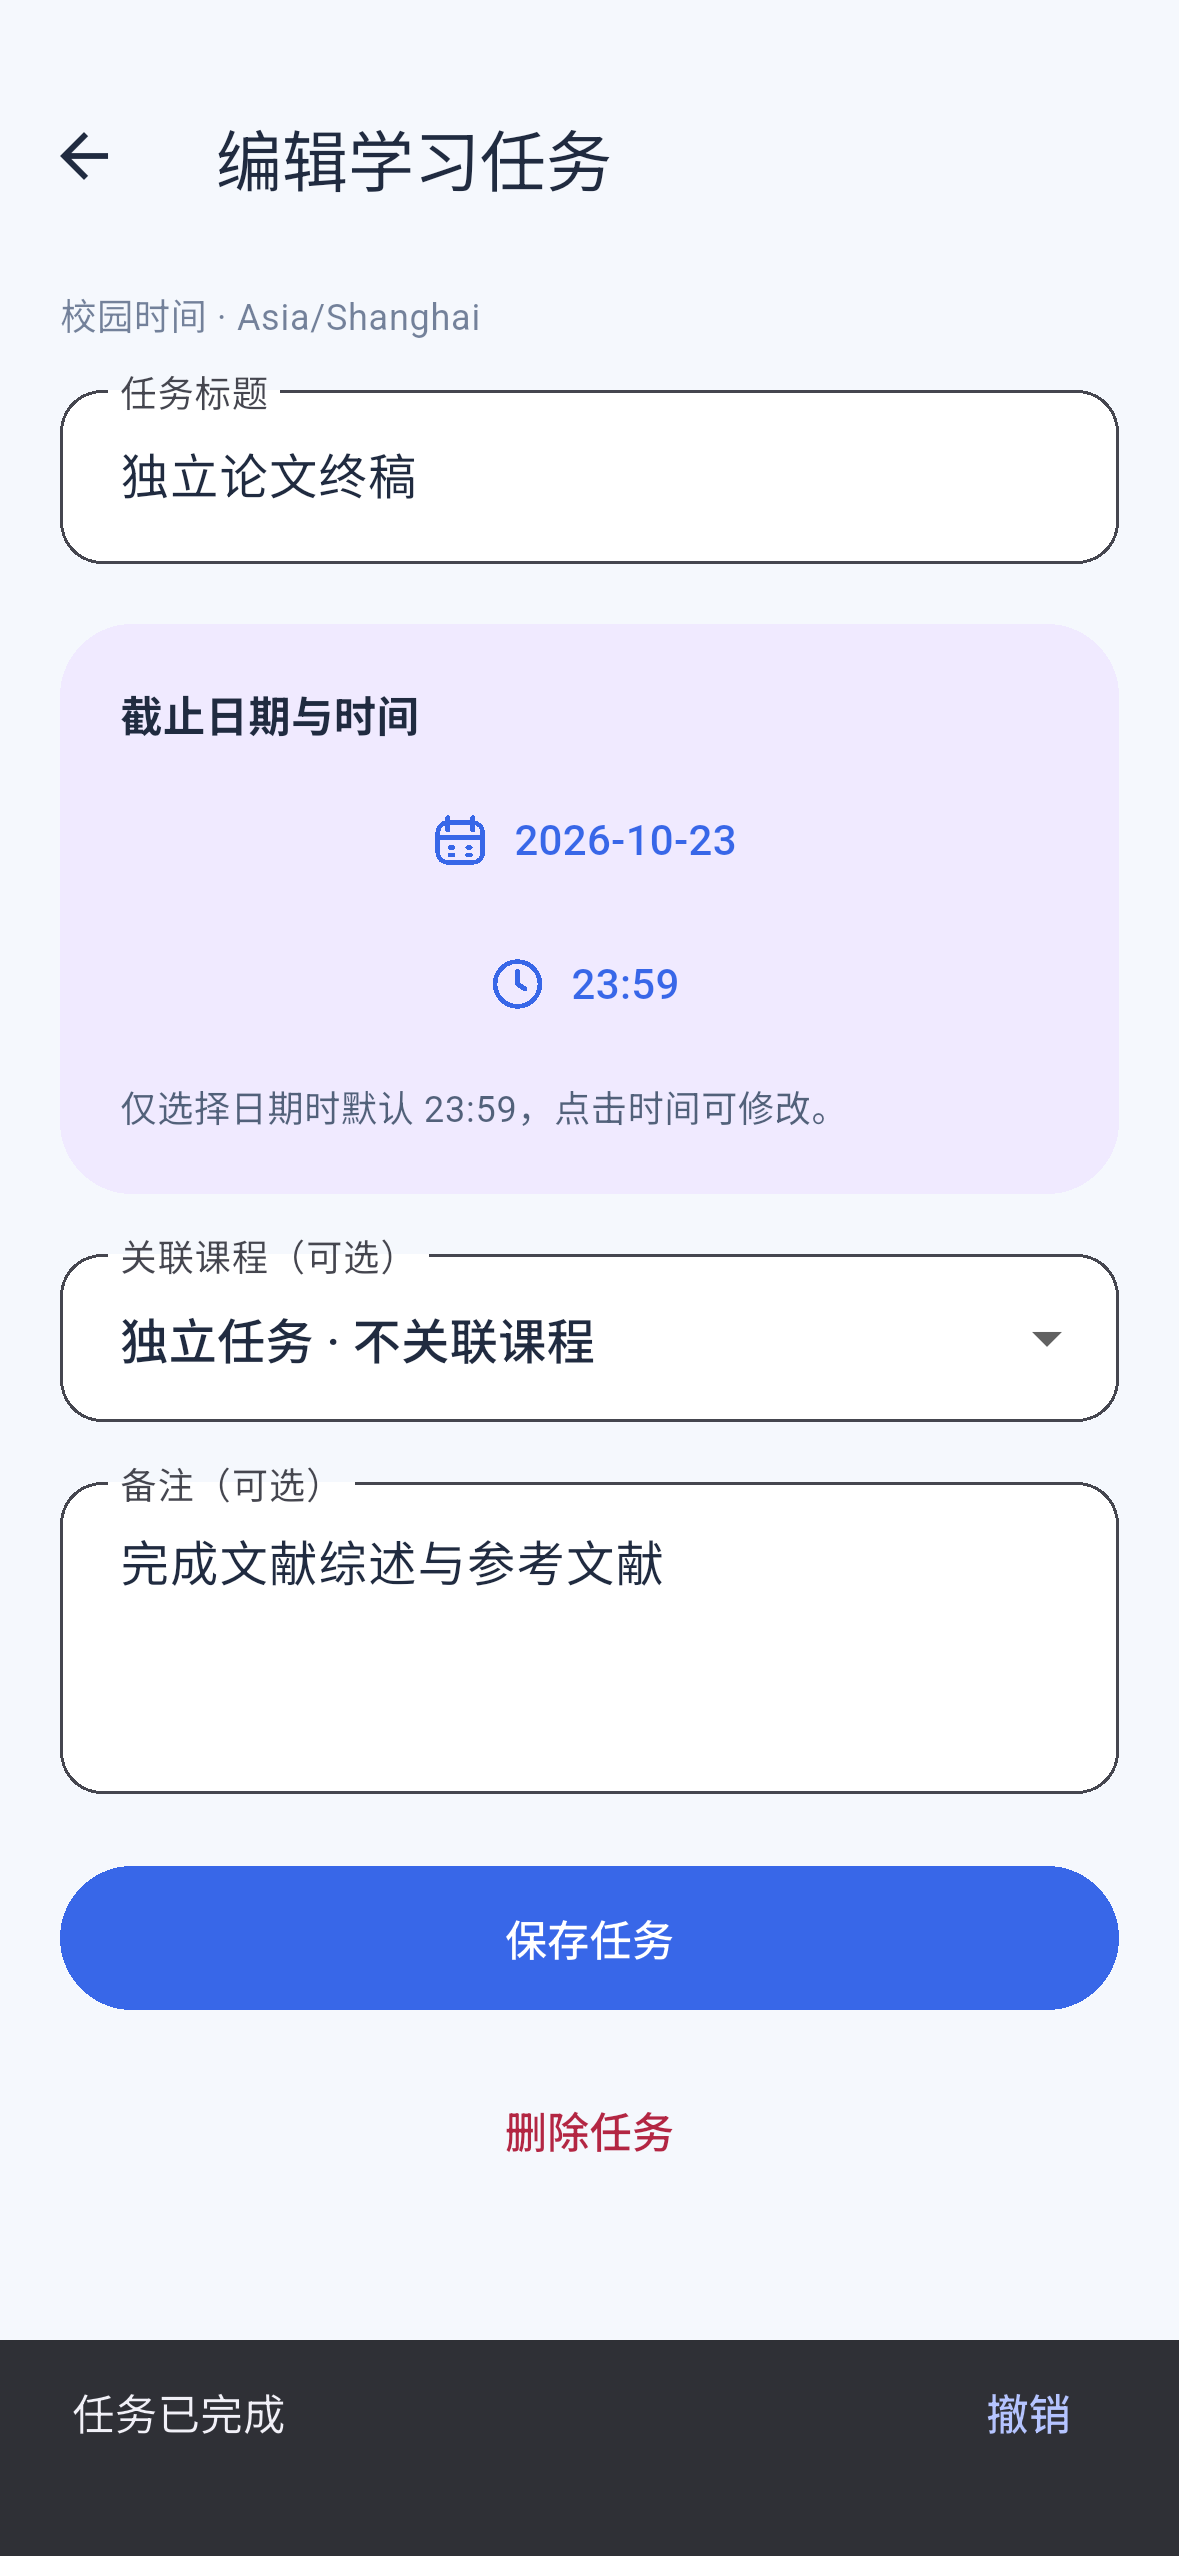
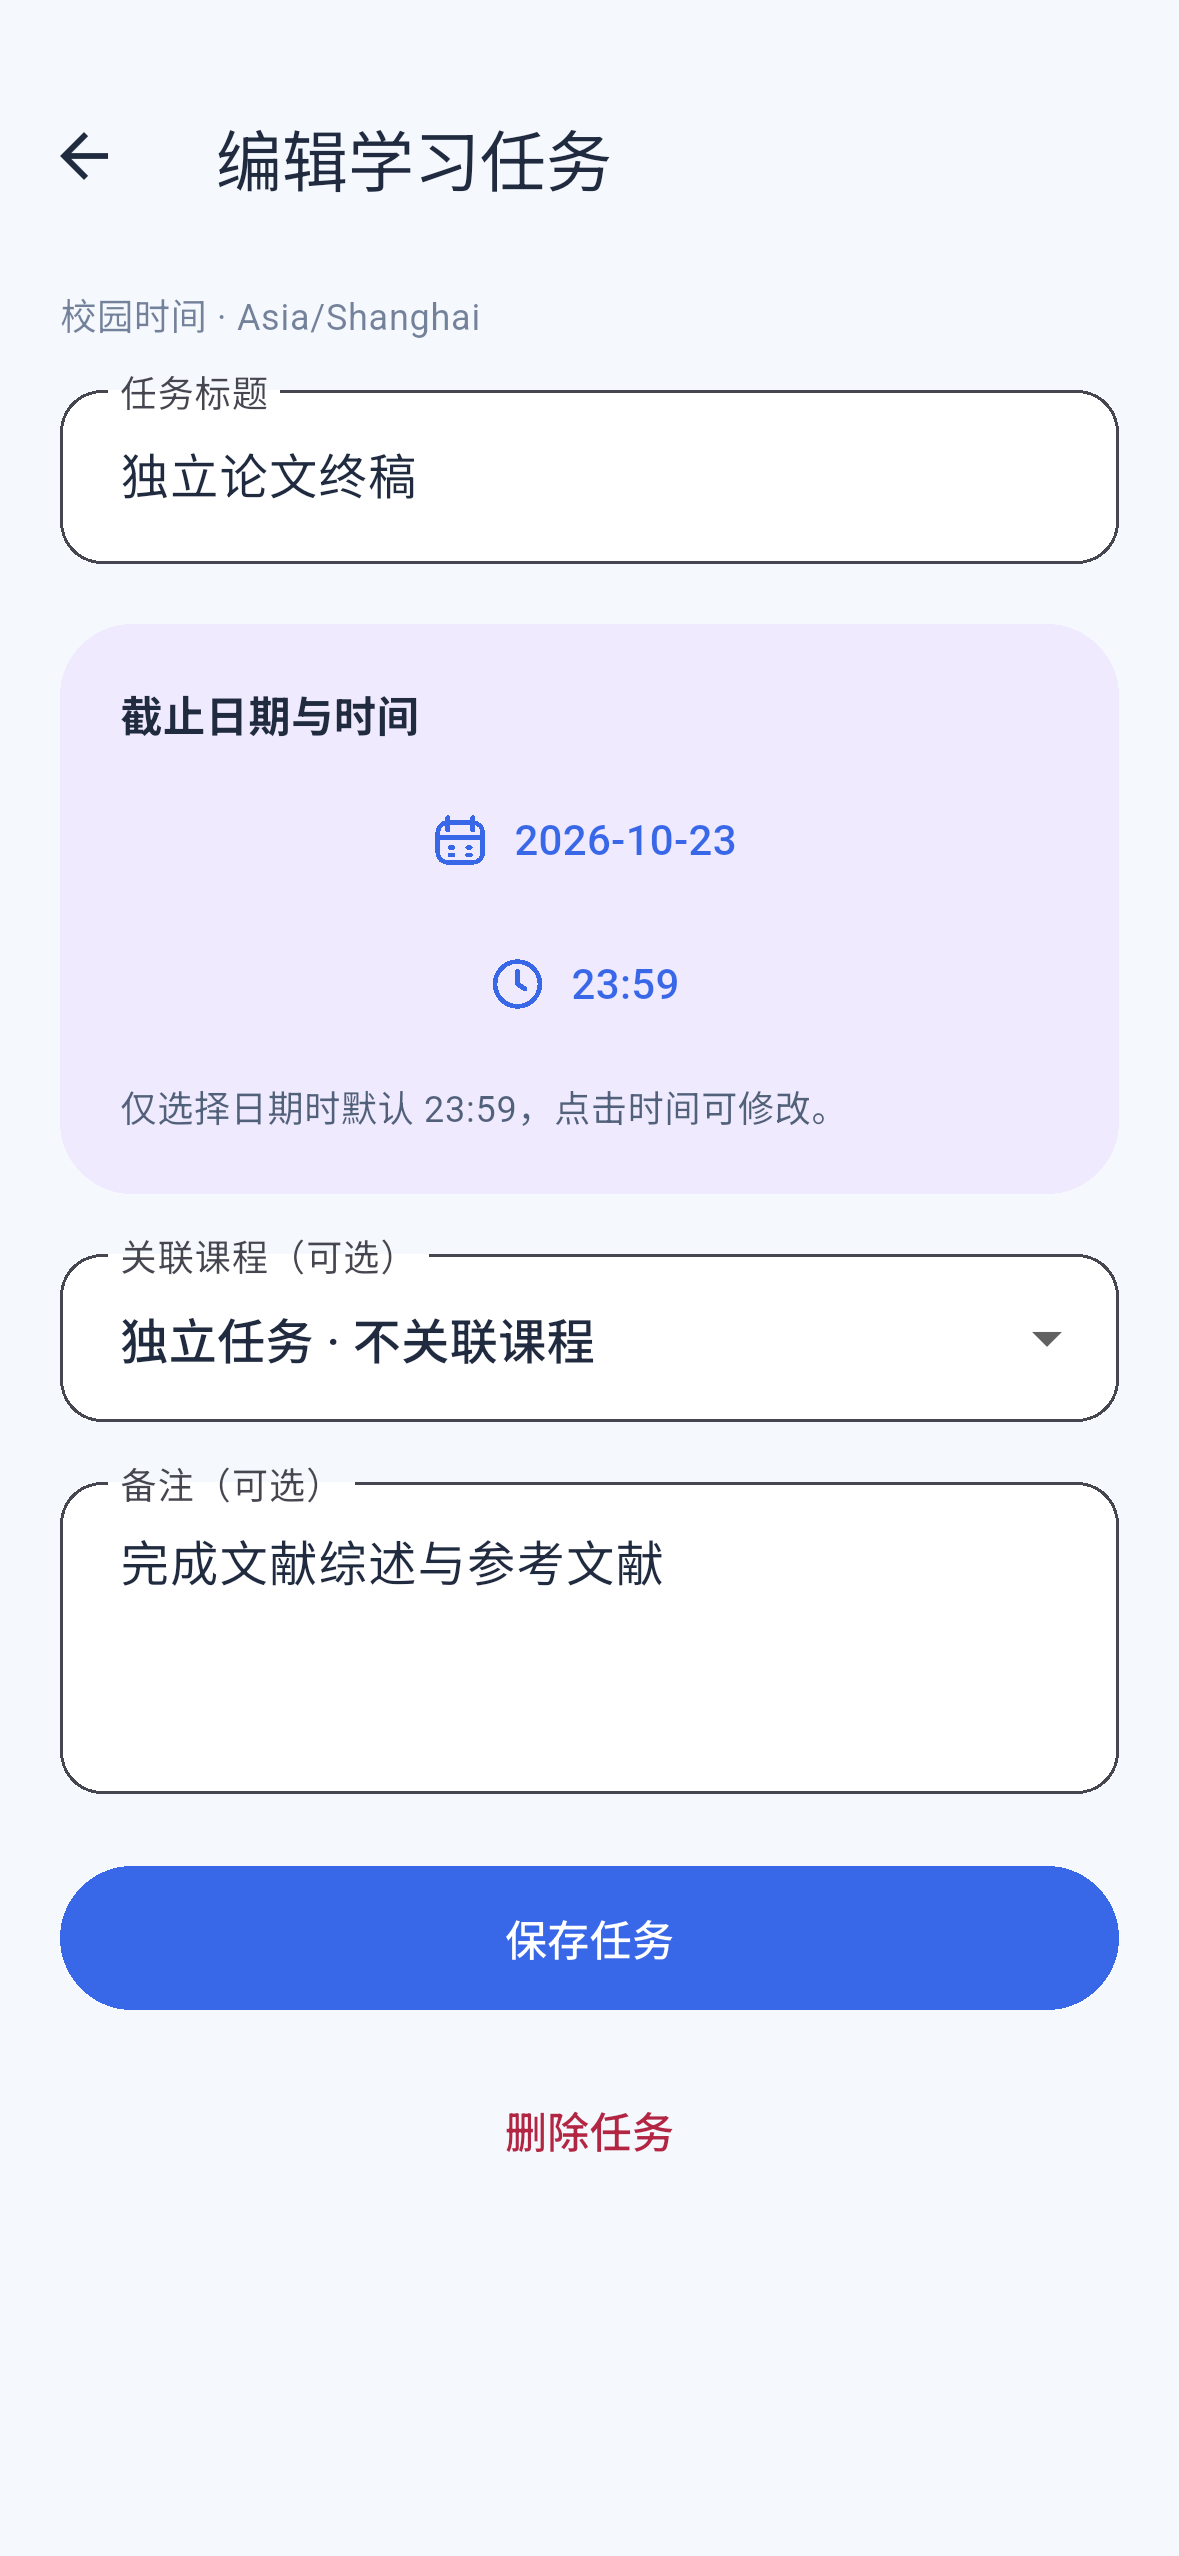
fix: scope task undo feedback to its page

Changed region(s): [[0.0, 0.8963, 1.0, 1.0]]

diff --git a/lib/tasks/tasks_page.dart b/lib/tasks/tasks_page.dart
@@ -26,6 +26,7 @@ class _TasksPageState extends State<TasksPage> with WidgetsBindingObserver {
   bool _busy = false;
   String? _error;
   Timer? _refresh;
+  final _messenger = GlobalKey<ScaffoldMessengerState>();
 
   @override
   void initState() {
@@ -80,15 +81,15 @@ class _TasksPageState extends State<TasksPage> with WidgetsBindingObserver {
   }
 
   Future<void> _toggle(LearningTask task, [bool? completed]) async {
-    if (_busy) return;
+    if (!mounted || _busy) return;
     final target = completed ?? !task.isCompleted;
     setState(() => _busy = true);
     try {
       await widget.planner.setTaskCompleted(task.id, target);
       await _load();
       if (mounted) {
-        ScaffoldMessenger.of(context).hideCurrentSnackBar();
-        ScaffoldMessenger.of(context).showSnackBar(
+        _messenger.currentState!.hideCurrentSnackBar();
+        _messenger.currentState!.showSnackBar(
           SnackBar(
             content: Text(target ? '任务已完成' : '已撤销完成'),
             action: SnackBarAction(
@@ -239,129 +240,132 @@ class _TasksPageState extends State<TasksPage> with WidgetsBindingObserver {
             courseId: _courseId,
             independentOnly: _independent,
           );
-    return Scaffold(
-      body: SafeArea(
-        child: Column(
-          children: [
-            if (_busy) const LinearProgressIndicator(),
-            Expanded(
-              child: state == null && _error == null
-                  ? const Center(child: CircularProgressIndicator())
-                  : PageContent(
-                      children: [
-                        Row(
-                          children: [
-                            RoundDesignButton(
-                              icon: 'back',
-                              label: '返回',
-                              onPressed: () => Navigator.pop(context),
-                            ),
-                            const Expanded(
-                              child: Text(
-                                '学习任务',
-                                textAlign: TextAlign.center,
-                                style: TextStyle(
-                                  fontSize: 16,
-                                  fontWeight: FontWeight.w800,
+    return ScaffoldMessenger(
+      key: _messenger,
+      child: Scaffold(
+        body: SafeArea(
+          child: Column(
+            children: [
+              if (_busy) const LinearProgressIndicator(),
+              Expanded(
+                child: state == null && _error == null
+                    ? const Center(child: CircularProgressIndicator())
+                    : PageContent(
+                        children: [
+                          Row(
+                            children: [
+                              RoundDesignButton(
+                                icon: 'back',
+                                label: '返回',
+                                onPressed: () => Navigator.pop(context),
+                              ),
+                              const Expanded(
+                                child: Text(
+                                  '学习任务',
+                                  textAlign: TextAlign.center,
+                                  style: TextStyle(
+                                    fontSize: 16,
+                                    fontWeight: FontWeight.w800,
+                                  ),
                                 ),
                               ),
-                            ),
-                            RoundDesignButton(
-                              icon: 'plus',
-                              label: '创建任务',
-                              onPressed: state == null || _busy
-                                  ? null
-                                  : () => _edit(),
-                              primary: true,
+                              RoundDesignButton(
+                                icon: 'plus',
+                                label: '创建任务',
+                                onPressed: state == null || _busy
+                                    ? null
+                                    : () => _edit(),
+                                primary: true,
+                              ),
+                            ],
+                          ),
+                          const SizedBox(height: 20),
+                          if (_error != null) ...[
+                            ProblemBanner(_error!),
+                            TextButton(
+                              onPressed: _load,
+                              child: const Text('重新读取'),
                             ),
                           ],
-                        ),
-                        const SizedBox(height: 20),
-                        if (_error != null) ...[
-                          ProblemBanner(_error!),
-                          TextButton(
-                            onPressed: _load,
-                            child: const Text('重新读取'),
-                          ),
-                        ],
-                        if (state != null) ...[
-                          PageHeading(
-                            '每一个小目标，\n都值得完成',
-                            '校园时间  ${state.campusTimeZone}',
-                            art: 'pencil',
-                            bottomSpacing: 14,
-                          ),
-                          _filters(),
-                          if (tasks.isEmpty)
-                            SurfaceCard(
-                              child: Column(
-                                crossAxisAlignment: CrossAxisAlignment.start,
-                                children: [
-                                  Text(
-                                    state.tasks.isEmpty
-                                        ? '还没有学习任务'
-                                        : _completed
-                                        ? '暂无已完成任务'
-                                        : '当前筛选下没有未完成任务',
-                                    style: const TextStyle(
-                                      fontWeight: FontWeight.w700,
+                          if (state != null) ...[
+                            PageHeading(
+                              '每一个小目标，\n都值得完成',
+                              '校园时间  ${state.campusTimeZone}',
+                              art: 'pencil',
+                              bottomSpacing: 14,
+                            ),
+                            _filters(),
+                            if (tasks.isEmpty)
+                              SurfaceCard(
+                                child: Column(
+                                  crossAxisAlignment: CrossAxisAlignment.start,
+                                  children: [
+                                    Text(
+                                      state.tasks.isEmpty
+                                          ? '还没有学习任务'
+                                          : _completed
+                                          ? '暂无已完成任务'
+                                          : '当前筛选下没有未完成任务',
+                                      style: const TextStyle(
+                                        fontWeight: FontWeight.w700,
+                                      ),
                                     ),
-                                  ),
-                                  const SizedBox(height: 10),
-                                  const Text('给小目标留一个截止时间，一步一步完成。'),
-                                  const SizedBox(height: 14),
-                                  FilledButton.icon(
-                                    onPressed: () => _edit(),
-                                    icon: const Icon(Icons.add),
-                                    label: const Text('创建任务'),
-                                  ),
-                                ],
+                                    const SizedBox(height: 10),
+                                    const Text('给小目标留一个截止时间，一步一步完成。'),
+                                    const SizedBox(height: 14),
+                                    FilledButton.icon(
+                                      onPressed: () => _edit(),
+                                      icon: const Icon(Icons.add),
+                                      label: const Text('创建任务'),
+                                    ),
+                                  ],
+                                ),
+                              ),
+                            for (final group in TaskGroup.values)
+                              if (tasks.any((t) => t.groupAt(now!) == group))
+                                TaskSection(
+                                  group: group,
+                                  children: [
+                                    for (final task in tasks.where(
+                                      (t) => t.groupAt(now!) == group,
+                                    ))
+                                      TaskCard(
+                                        task: task,
+                                        campusNow: now!,
+                                        course: state.courses
+                                            .where((c) => c.id == task.courseId)
+                                            .firstOrNull,
+                                        onEdit: () => _edit(task),
+                                        onToggle: _busy
+                                            ? null
+                                            : () => _toggle(task),
+                                      ),
+                                  ],
+                                ),
+                            const SizedBox(height: 14),
+                            Center(
+                              child: SvgPicture.asset(
+                                'docs/design/resources/illustrations/book.svg',
+                                width: 145,
+                                height: 110,
+                                excludeFromSemantics: true,
                               ),
                             ),
-                          for (final group in TaskGroup.values)
-                            if (tasks.any((t) => t.groupAt(now!) == group))
-                              TaskSection(
-                                group: group,
-                                children: [
-                                  for (final task in tasks.where(
-                                    (t) => t.groupAt(now!) == group,
-                                  ))
-                                    TaskCard(
-                                      task: task,
-                                      campusNow: now!,
-                                      course: state.courses
-                                          .where((c) => c.id == task.courseId)
-                                          .firstOrNull,
-                                      onEdit: () => _edit(task),
-                                      onToggle: _busy
-                                          ? null
-                                          : () => _toggle(task),
-                                    ),
-                                ],
+                            const SizedBox(height: 8),
+                            const Text(
+                              '完成后可撤销',
+                              textAlign: TextAlign.center,
+                              style: TextStyle(
+                                fontSize: 11,
+                                color: Color(0xff73819a),
                               ),
-                          const SizedBox(height: 14),
-                          Center(
-                            child: SvgPicture.asset(
-                              'docs/design/resources/illustrations/book.svg',
-                              width: 145,
-                              height: 110,
-                              excludeFromSemantics: true,
                             ),
-                          ),
-                          const SizedBox(height: 8),
-                          const Text(
-                            '完成后可撤销',
-                            textAlign: TextAlign.center,
-                            style: TextStyle(
-                              fontSize: 11,
-                              color: Color(0xff73819a),
-                            ),
-                          ),
+                          ],
                         ],
-                      ],
-                    ),
-            ),
-          ],
+                      ),
+              ),
+            ],
+          ),
         ),
       ),
     );

diff --git a/test/learning_tasks_ui_test.dart b/test/learning_tasks_ui_test.dart
@@ -16,6 +16,42 @@ import 'support/semester_fixture.dart';
 void main() {
   setUpAll(tzdata.initializeTimeZones);
 
+  testWidgets('完成后离开任务页移除所属撤销提示，重新进入仍可撤销且不调用已销毁状态', (tester) async {
+    await tester.runAsync(() async {
+      final store = PlannerStore(NativeDatabase.memory());
+      final planner = SemesterPlanner(store);
+      await planner.saveTask(
+        LearningTaskDraft(title: '跨页撤销', dueDate: DateTime(2026, 10, 25)),
+      );
+      try {
+        await tester.pumpWidget(
+          UniPocketApp(
+            planner: planner,
+            clock: () => DateTime.utc(2026, 10, 25, 4),
+          ),
+        );
+        await waitFor(tester, find.text('查看全部任务'));
+        await tapVisible(tester, find.text('查看全部任务'));
+        await waitFor(tester, find.text('跨页撤销'));
+        await tapVisible(tester, find.byTooltip('完成：跨页撤销'));
+        await waitFor(tester, find.text('任务已完成'));
+        await tapVisible(tester, find.byTooltip('返回'));
+        await waitFor(tester, find.text('首页'));
+        expect(find.text('撤销'), findsNothing);
+        expect(tester.takeException(), isNull);
+        await tapVisible(tester, find.text('查看全部任务'));
+        await waitFor(tester, find.text('已完成  1'));
+        await tapVisible(tester, find.text('已完成  1'));
+        await tapVisible(tester, find.byTooltip('撤销完成：跨页撤销'));
+        await waitFor(tester, find.text('已撤销完成'));
+        expect((await planner.load()).tasks.single.isCompleted, isFalse);
+      } finally {
+        await tester.pumpWidget(const SizedBox.shrink());
+        await store.close();
+      }
+    });
+  });
+
   for (final width in [320.0, 393.0]) {
     for (final scale in [1.0, 2.0]) {
       testWidgets('$width 宽度、$scale 倍文字下完整列表、长标题、筛选及表单可滚动访问', (tester) async {

diff --git a/integration_test/learning_tasks_flow_test.dart b/integration_test/learning_tasks_flow_test.dart
@@ -118,6 +118,10 @@ void main() {
       if (!restore) {
         await tapVisible(tester, find.text('独立论文终稿'));
         await capture('03-android-editor');
+        await tapVisible(tester, find.byTooltip('返回'));
+        await tapVisible(tester, find.byTooltip('返回'));
+        await waitFor(tester, find.text('首页'));
+        expect(find.text('撤销'), findsNothing);
       } else {
         await tapVisible(tester, find.byTooltip('撤销完成：独立论文终稿'));
         await waitFor(tester, find.text('已撤销完成'));
